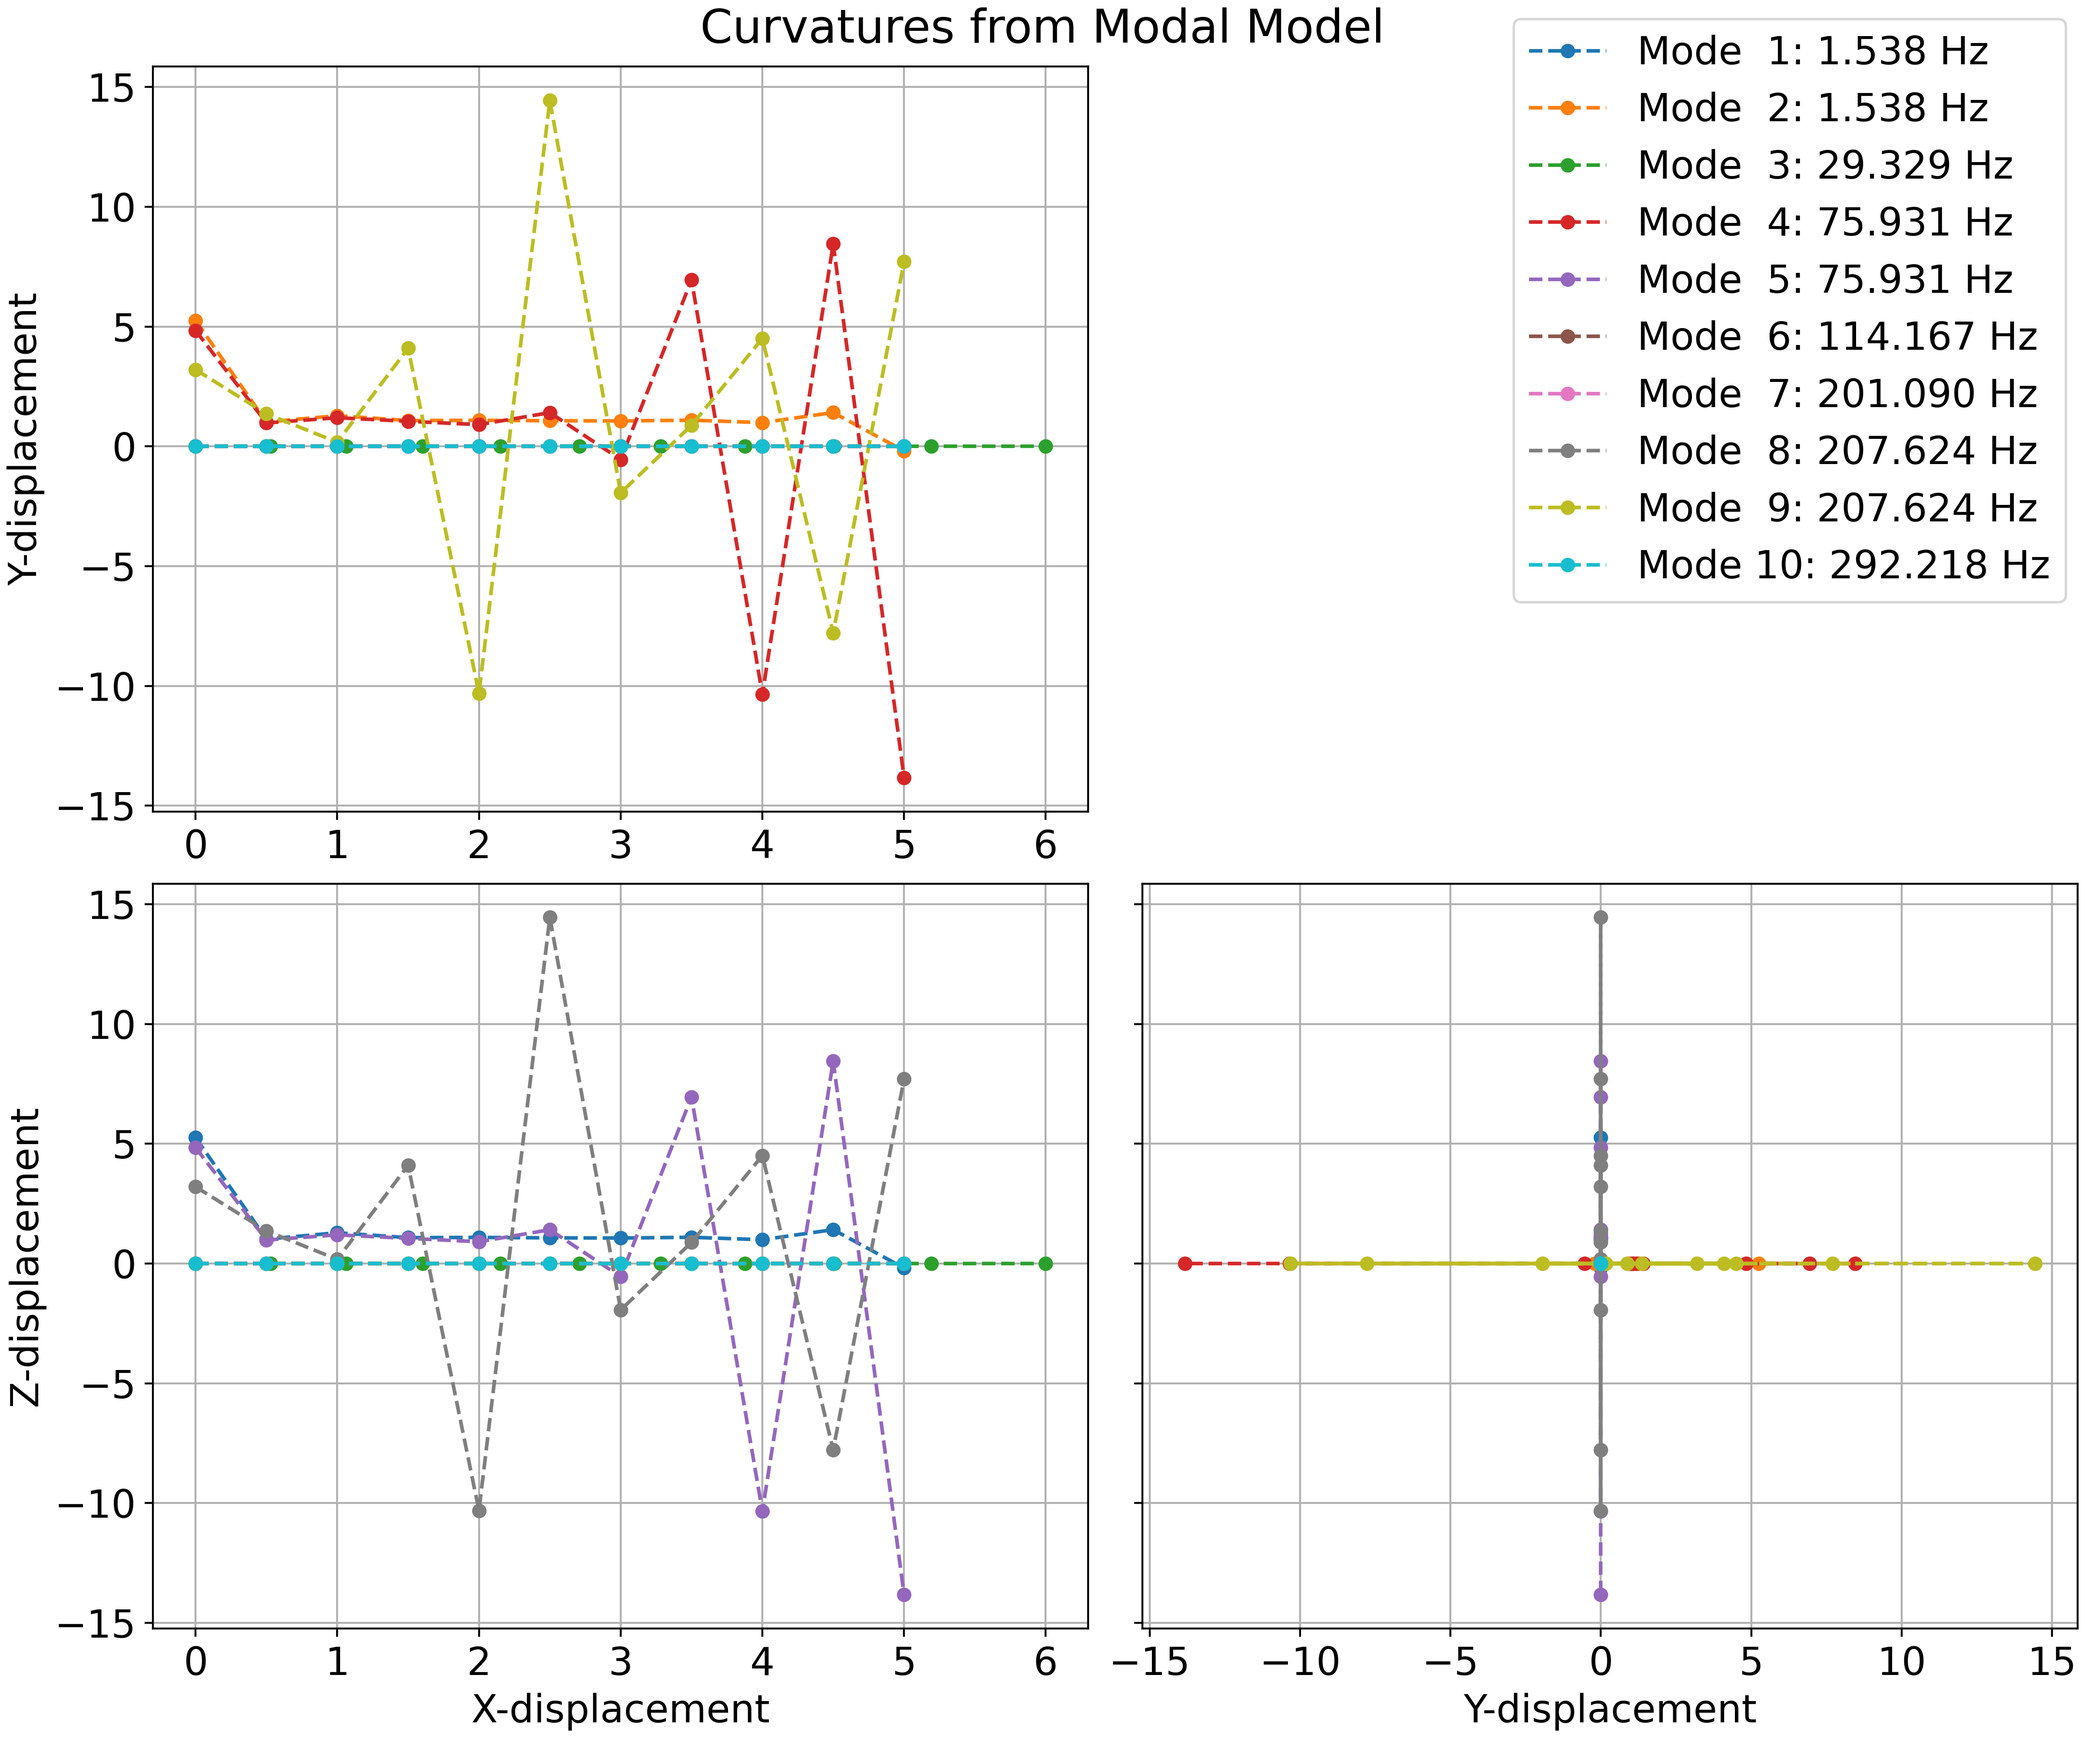
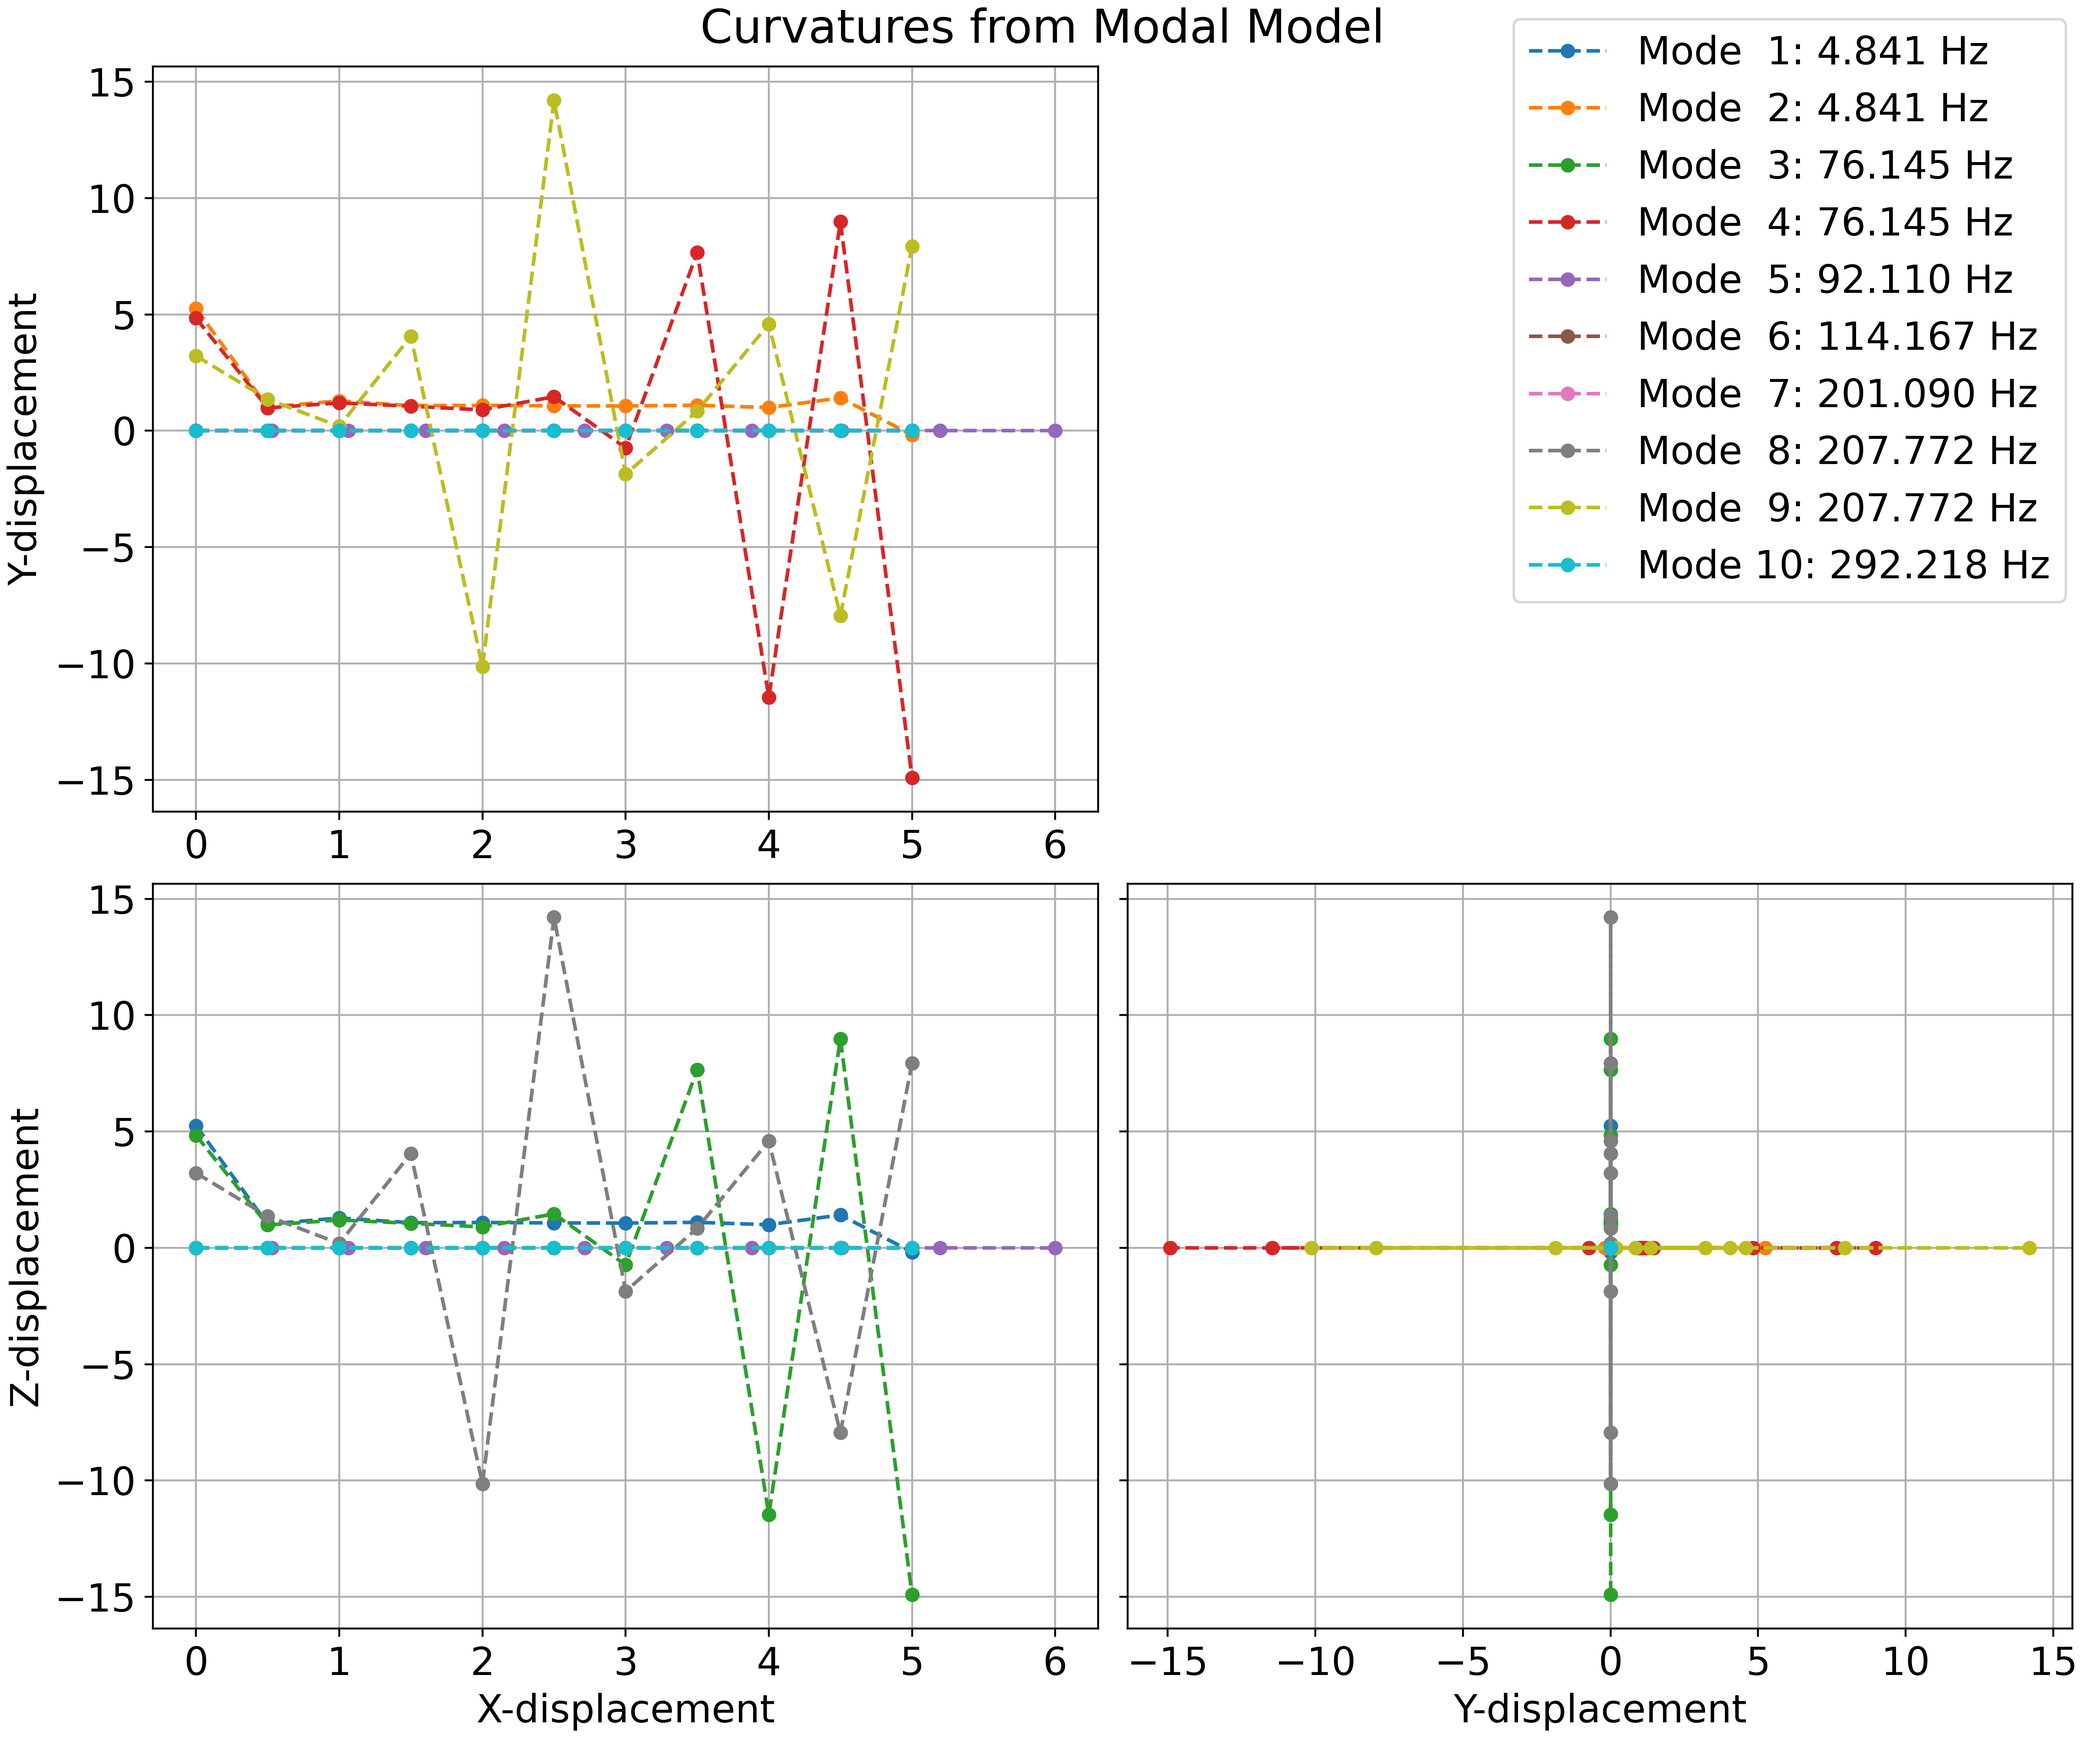
Tip mass modeshapes

diff --git a/reports/problem1/n2.html b/reports/problem1/n2.html
@@ -3257,7 +3257,7 @@ return _;
 </div>
 
 <script type="text/javascript">
[2 lines of base64/hex data omitted]
 </script>
 
 <script type="text/javascript">

diff --git a/show_modeshape.py b/show_modeshape.py
@@ -77,7 +77,7 @@ cantilever_group = Cantilever(nodal_data=nodal_data) # Increased nodes
 prob.model.set_input_defaults('D_beam', val=np.linspace(0.5,0.1,nElem), units='m')
 prob.model.set_input_defaults('wt_beam', val=np.linspace(0.02,0.01,nElem), units='m')
 prob.model.set_input_defaults('L_beam_tot', val=5., units='m')
-prob.model.set_input_defaults('tip_mass', val=10000., units='kg')
+prob.model.set_input_defaults('tip_mass', val=1000., units='kg')
 
 prob.model.add_subsystem('cantilever', 
     cantilever_group, 
